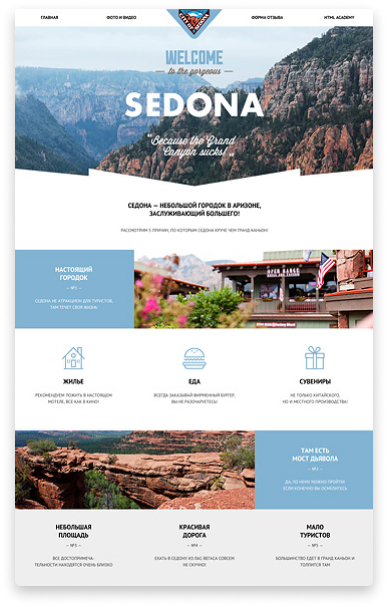
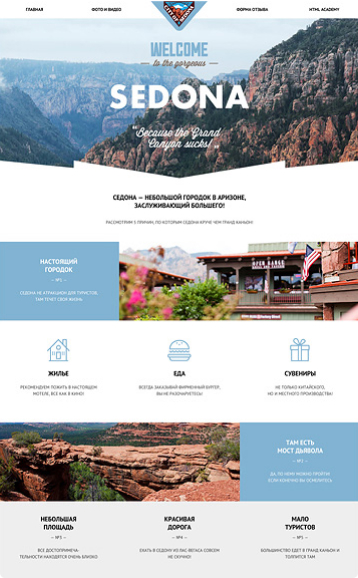
работы над футером

diff --git a/css/style.css b/css/style.css
@@ -399,14 +399,19 @@ th .percent{
   opacity: 0.1;
 }
 
+
 /*footer*/
 
+
 .main-footer{
-  margin-bottom: 76px;
+  margin-bottom: 68px;
 }
 
-.footer-contacts{
+.footer-contacts{ /*От карты до девиза*/
   margin-bottom: 68px;
+
+  width: 100%;
+  height: 416px;
 }
 
 .map-contacts{
@@ -614,6 +619,7 @@ input:focus::-webkit-input-placeholder{
   display: grid;
   grid-template-columns: 260px 1fr;
   column-gap: 140px;
+  margin-bottom: 60px;
  }
 
 
@@ -926,4 +932,12 @@ opacity: 0.3;
   background-color: rgba(0, 0, 0, 0.0001);
   outline: 3px solid var(--active-border);
   outline-offset: -3px;
+}
+
+
+/*main-footer-catalog*/
+
+
+.main-footer-catalog{
+  margin-bottom: 76px;
 }

diff --git a/catalog.html b/catalog.html
@@ -198,8 +198,7 @@
 
 
 
-    <footer class="main-footer">
-      <div class="container">
+    <footer class="main-footer main-footer-catalog">
         <section class="footer-contacts">
         <h2>Контакты</h2>
         <!--Тут будет карта-->
@@ -212,6 +211,8 @@
           <button class="button modal-button" type="button">Напишите нам</button>
         </div>
         </section>
+
+      <div class="container">
 
         <div class="footer-wrapper">
           <section class="footer-social">
